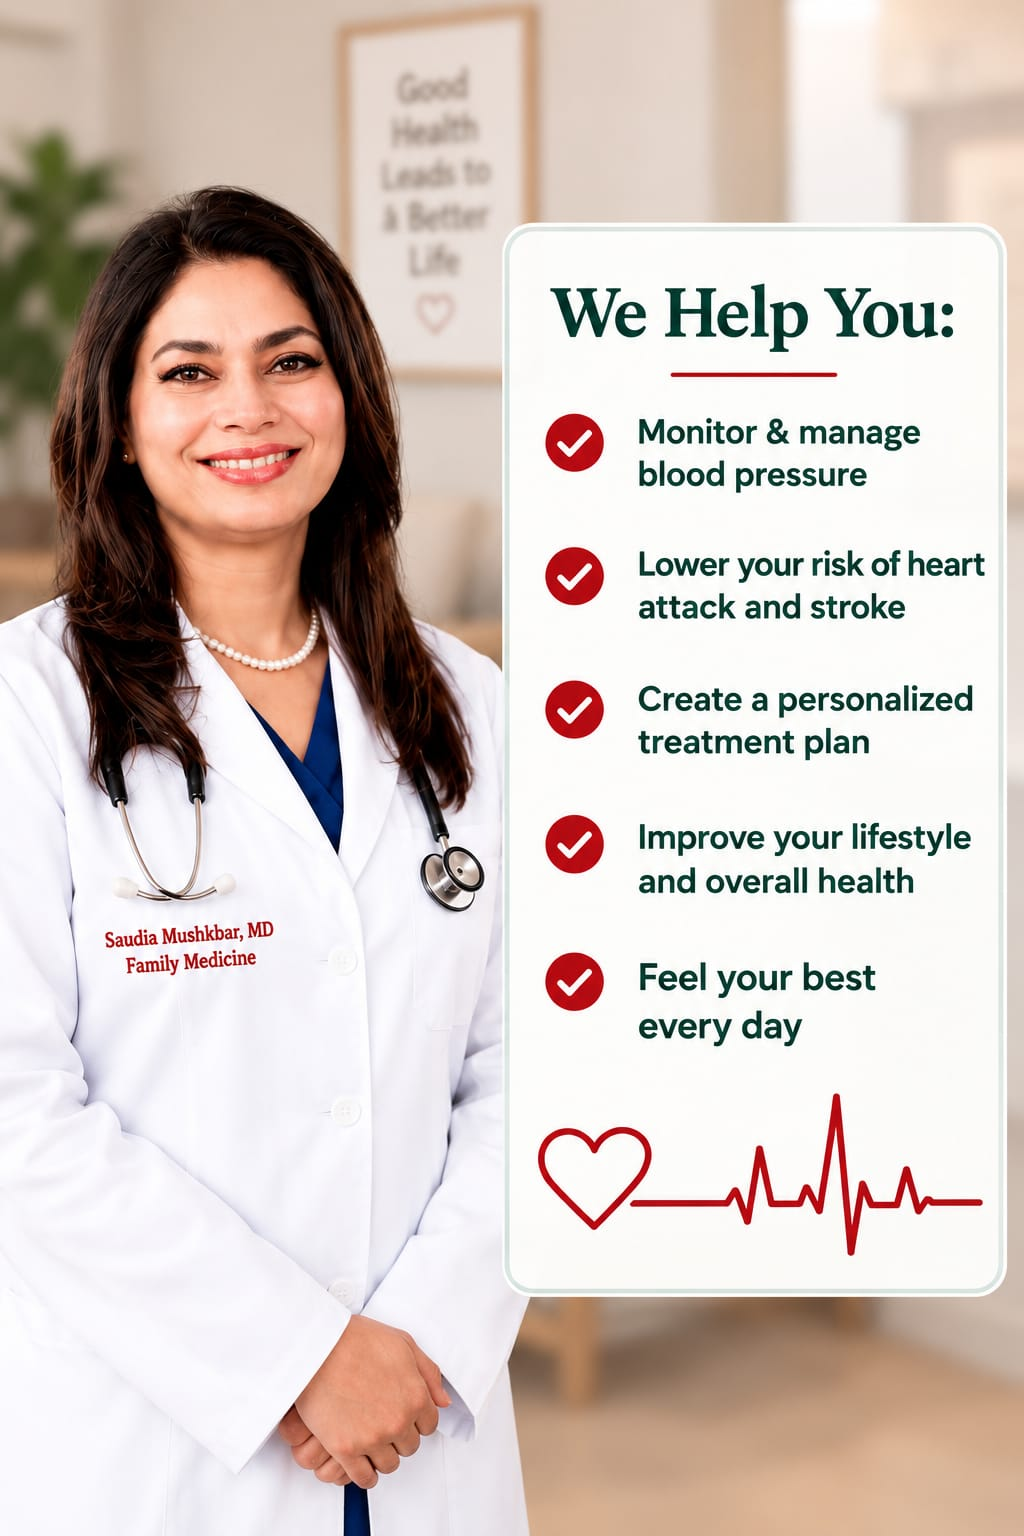
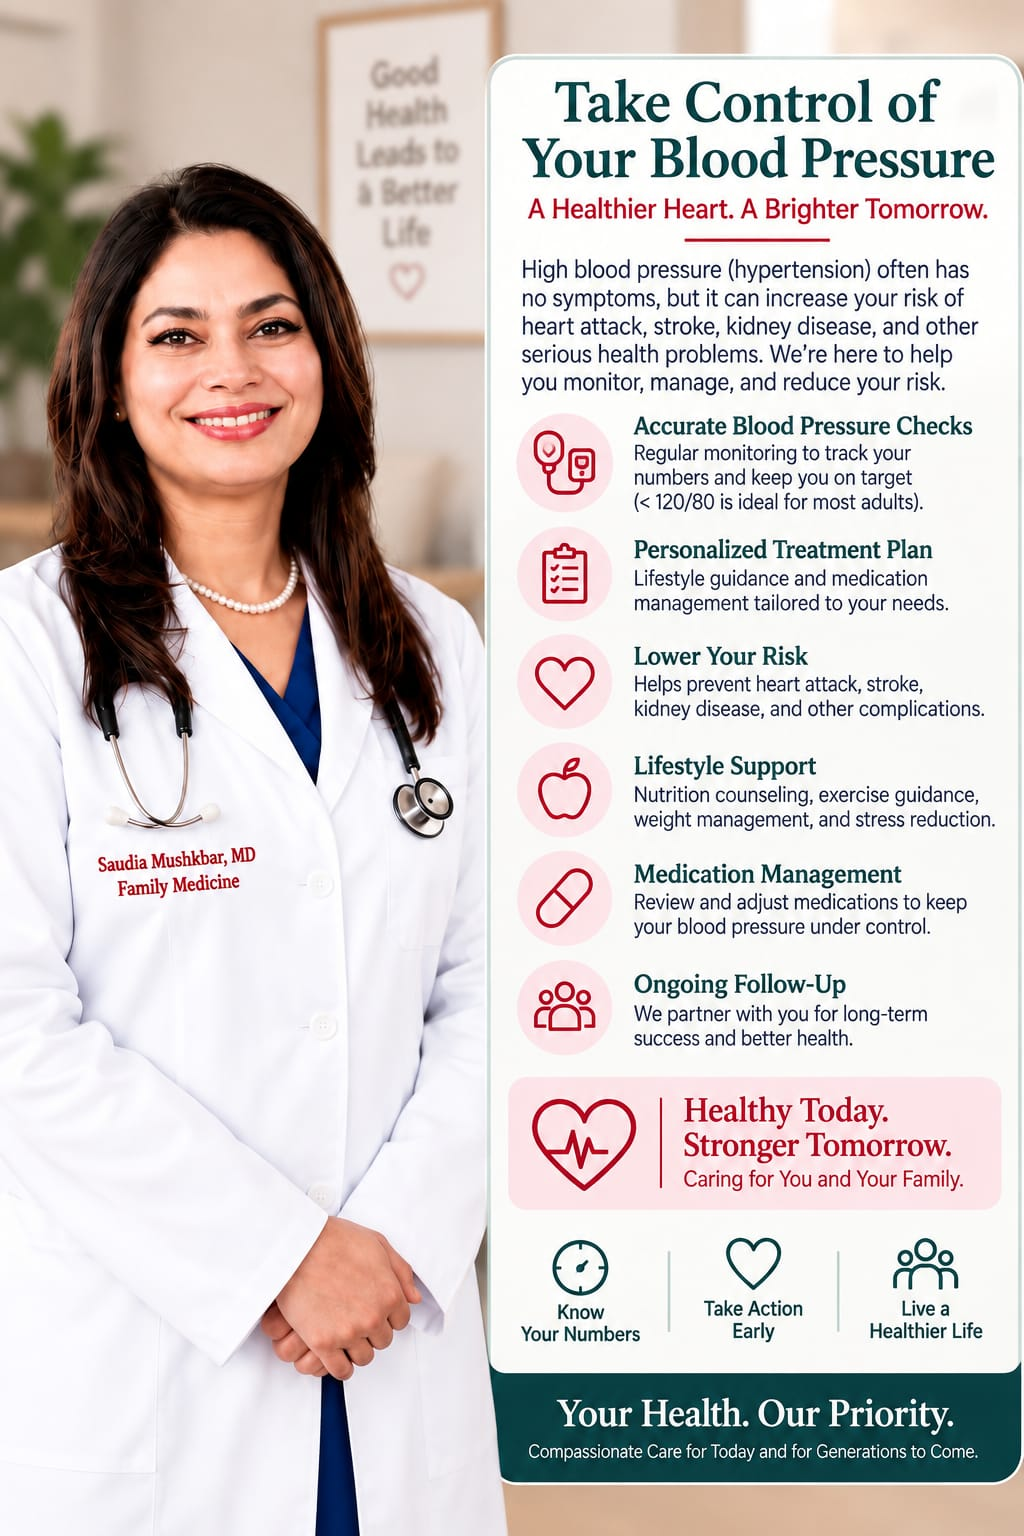
Use the supplied hero graphics across the service pages
Point ten service pages and the Medicare page at the hero images added to
public/images/doctor, each named for its route, and drop the floating card
that sat over them. Each graphic carries its own panel, so the card was a
second card on top of the first.

Two structural changes the new images forced:

The hero no longer crops to 4:5. These files are composed graphics whose
panels carry real content, and a fixed aspect ratio was slicing that content
off — worst on the landscape women's health image, where most of the panel
was outside the crop.

Wide images now span the full content width beneath the copy rather than
sitting in a 45% column. At column width the women's panel rendered its body
text at roughly a third of its designed size, which is unreadable; full width
brings it back to near 1:1.

Each image's alt text spells out its panel, since none of that wording reaches
screen readers or search engines from the file itself.

On the homepage hero, the plan list is now the six plan logos rather than their
names in prose, and the separate logo band below it is gone since it repeated
the same marks. The headline uses the same 64px ceiling as the service heroes
so it stops wrapping onto four lines, and the duplicated "confirm your plan"
line is down to one.

/primary-care-doctor-toledo and /hospital-follow-up-primary-care-toledo keep
their existing portrait and floating card — no graphic was supplied for either.
[…]

diff --git a/lib/landing.ts b/lib/landing.ts
@@ -17,36 +17,6 @@ const WHITE_COAT = {
   height: 2560,
 } as const;
 
-const SCRUBS = {
-  src: "/images/doctor/doctor-saudia-mushkbar-scrubs.jpeg",
-  alt: "Dr. Saudia Mushkbar, MD, family medicine physician in Toledo, Ohio, wearing navy scrubs with a stethoscope",
-  width: 899,
-  height: 1320,
-} as const;
-
-const BLOOD_PRESSURE = {
-  src: "/images/doctor/high-blood-pressure-doctor-toledo.jpg",
-  // The panel is part of the image file, so its wording has to live here —
-  // none of it is otherwise available to screen readers or crawlers.
-  alt: "Dr. Saudia Mushkbar, MD in her Toledo, Ohio family medicine office, beside a panel headed “We Help You” reading: monitor and manage blood pressure, lower your risk of heart attack and stroke, create a personalized treatment plan, improve your lifestyle and overall health, and feel your best every day",
-  width: 1024,
-  height: 1536,
-} as const;
-
-const SENIOR_VISIT = {
-  src: "/images/general/family-medicine-care-2.png",
-  alt: "A clinician sitting with an older adult patient during a primary care visit",
-  width: 570,
-  height: 840,
-} as const;
-
-const CONSULT = {
-  src: "/images/general/family-medicine-care-1.webp",
-  alt: "A patient talking with her doctor during a primary care appointment",
-  width: 570,
-  height: 840,
-} as const;
-
 /** Reasons shared by most pages, phrased from facts published on the site. */
 const commonReasons = [
   {
@@ -92,24 +62,12 @@ export const landingPages: LandingPageData[] = [
       { title: "Compassionate care", description: "Every visit matters.", icon: "HandHeart" },
       { title: "One familiar practice", description: "Follow-up with your own doctor.", icon: "Stethoscope" },
     ],
-    aside: {
-      kind: "checklist",
-      title: "Get care today for:",
-      items: [
-        "Cold, flu & cough",
-        "Sore throat",
-        "Ear pain",
-        "Urinary symptoms",
-        "Rashes & skin issues",
-        "Minor injuries",
-        "And more",
-      ],
-      note: {
-        title: "In an emergency",
-        body: "For life-threatening emergencies please call 911 or go to the nearest emergency room.",
-      },
+    image: {
+      src: "/images/doctor/same-day-primary-care-toledo.jpg",
+      alt: "Dr. Saudia Mushkbar, MD in her Toledo office beside a panel headed “Same-Day Appointments Available”, listing common reasons for a same-day visit: cold, flu and cough; sore throat; ear pain; urinary symptoms; rashes and skin issues; minor injuries; and more — with the office number, 419-517-7687",
+      width: 1224,
+      height: 1285,
     },
-    image: WHITE_COAT,
     grid: {
       title: "Comprehensive Primary Care Services",
       items: [
@@ -215,20 +173,12 @@ export const landingPages: LandingPageData[] = [
       { title: "Same-day & same-week appointments", icon: "CalendarClock" },
       { title: "Compassionate, respectful support", icon: "MessageCircleHeart" },
     ],
-    aside: {
-      kind: "checklist",
-      title: "Care for women at every stage",
-      items: [
-        "Annual wellness exams",
-        "Routine gynecological exams",
-        "Menstrual & hormonal health",
-        "Contraception counseling",
-        "Family planning",
-        "Menopause support",
-        "Management of chronic conditions",
-      ],
+    image: {
+      src: "/images/doctor/womens-primary-care-doctor-toledo.jpg",
+      alt: "Dr. Saudia Mushkbar, MD with a patient beside a panel headed “Women’s Health Care At Every Stage of Life”, listing annual wellness exams, pap smears and breast exams, menstrual and hormonal health, contraception counseling, preconception and pregnancy planning, menopause support, bone health screening, management of chronic conditions, and personalized care for all women",
+      width: 1536,
+      height: 1024,
     },
-    image: SCRUBS,
     grid: {
       title: "Comprehensive Women’s Health Services",
       items: [
@@ -282,21 +232,12 @@ export const landingPages: LandingPageData[] = [
       { title: "Whole-person care", description: "Nutrition, lifestyle and medication support.", icon: "Apple" },
       { title: "Ongoing support", description: "Regular follow-ups and same-day access.", icon: "CalendarCheck" },
     ],
-    aside: {
-      kind: "checklist",
-      title: "Diabetes care includes:",
-      items: [
-        "Diabetes management (type 1 & type 2)",
-        "Blood sugar monitoring & A1C testing",
-        "Medication management",
-        "Nutrition & lifestyle counseling",
-        "Weight management",
-        "Screening for diabetes complications",
-        "Foot care & education",
-        "Coordination with specialists",
-      ],
+    image: {
+      src: "/images/doctor/diabetes-doctor-toledo.jpg",
+      alt: "Dr. Saudia Mushkbar, MD in her Toledo office beside a panel headed “Diabetes Care”, listing blood sugar monitoring, medication management, nutrition and lifestyle guidance, preventing complications, and ongoing support",
+      width: 1224,
+      height: 1285,
     },
-    image: WHITE_COAT,
     grid: {
       title: "Comprehensive Diabetes Care Services",
       items: [
@@ -349,7 +290,12 @@ export const landingPages: LandingPageData[] = [
     ],
     // No floating card: the portrait carries its own "We Help You" panel, so a
     // second card on top would stack one over the other.
-    image: BLOOD_PRESSURE,
+    image: {
+      src: "/images/doctor/high-blood-pressure-doctor-toledo.jpg",
+      alt: "Dr. Saudia Mushkbar, MD in her Toledo office beside a panel headed “Take Control of Your Blood Pressure”, listing accurate blood pressure checks, a personalized treatment plan, lowering your risk, lifestyle support, medication management, and ongoing follow-up",
+      width: 1024,
+      height: 1536,
+    },
     grid: {
       title: "Comprehensive Hypertension Care",
       items: [
@@ -400,26 +346,12 @@ export const landingPages: LandingPageData[] = [
       { title: "Early detection", description: "Identify risks and catch problems early.", icon: "Microscope" },
       { title: "A plan for the year", description: "Clear next steps you can follow.", icon: "CalendarCheck" },
     ],
-    aside: {
-      kind: "checklist",
-      title: "Your annual wellness visit may include:",
-      items: [
-        "Review of your medical history",
-        "Update of your medications",
-        "Blood pressure & vitals check",
-        "Cognitive health assessment",
-        "Depression screening",
-        "Fall risk assessment",
-        "Preventive screenings",
-        "Health education & counseling",
-        "A personalized prevention plan",
-      ],
-      note: {
-        title: "Confirm your plan",
-        body: "Coverage and network status vary by plan. Call the office and we will confirm your specific Medicare or Medicare Advantage plan.",
-      },
+    image: {
+      src: "/images/doctor/medicare-annual-wellness-visit-toledo.jpg",
+      alt: "Dr. Saudia Mushkbar, MD with an older patient beside a panel headed “Your Annual Wellness Visit”, listing review of your health history, updating your medications, checking vital signs, cognitive health screening, depression screening, fall risk assessment, preventive screenings, health education and counseling, and a personalized prevention plan",
+      width: 1024,
+      height: 1536,
     },
-    image: SENIOR_VISIT,
     grid: {
       title: "What Your Medicare Annual Wellness Visit Covers",
       items: [
@@ -477,21 +409,12 @@ export const landingPages: LandingPageData[] = [
       { title: "Vaccinations", description: "Kept up to date at your visit.", icon: "Syringe" },
       { title: "All ages", description: "Adults and children alike.", icon: "Users" },
     ],
-    aside: {
-      kind: "checklist",
-      title: "Your annual physical may include:",
-      items: [
-        "Review of your medical history",
-        "Blood pressure & vitals check",
-        "Physical examination",
-        "Cholesterol & blood sugar screening",
-        "Cancer screening recommendations",
-        "Vaccination review & updates",
-        "Medication review",
-        "A plan for the year ahead",
-      ],
+    image: {
+      src: "/images/doctor/annual-physical-exam-toledo.jpg",
+      alt: "Dr. Saudia Mushkbar, MD with an older patient beside a panel headed “A Healthy You Builds a Stronger Tomorrow”, listing: check your health, prevent future problems, feel your best, and live a longer, healthier life",
+      width: 1199,
+      height: 1312,
     },
-    image: CONSULT,
     grid: {
       title: "What a Wellness Exam Covers",
       items: [
@@ -542,21 +465,12 @@ export const landingPages: LandingPageData[] = [
       { title: "Chronic disease support", description: "Long-term conditions managed well.", icon: "Activity" },
       { title: "Medicare accepted", description: "Medicare & Medicare Advantage.", icon: "ShieldCheck" },
     ],
-    aside: {
-      kind: "checklist",
-      title: "Senior care includes:",
-      items: [
-        "Medicare Annual Wellness Visits",
-        "Preventive care & screenings",
-        "Chronic disease management",
-        "Medication management",
-        "Memory & cognitive check-ins",
-        "Fall risk assessment",
-        "Coordination with specialists",
-        "Same-day sick visits",
-      ],
+    image: {
+      src: "/images/doctor/senior-primary-care-doctor-toledo.jpg",
+      alt: "Dr. Saudia Mushkbar, MD with an older patient beside a panel headed “Comprehensive Primary Care for Seniors”, covering preventive and wellness care, chronic disease management, memory and cognitive health, healthy aging support, care coordination, and Medicare and insurance support",
+      width: 1319,
+      height: 1193,
     },
-    image: SENIOR_VISIT,
     grid: {
       title: "Comprehensive Care for Older Adults",
       items: [
@@ -607,8 +521,12 @@ export const landingPages: LandingPageData[] = [
       "Compassionate, personalized care you can trust",
       "Convenient location in Toledo, OH",
     ],
-    aside: { kind: "trust" },
-    image: SCRUBS,
+    image: {
+      src: "/images/doctor/switch-medicare-primary-care-doctor-toledo.jpg",
+      alt: "Dr. Saudia Mushkbar, MD beside a panel headed “Switch Your Medicare PCP to Dr. Mushkbar”, explaining why patients choose her and the four steps to switch: call the office, we help with the paperwork, confirm your plan, and you’re all set",
+      width: 1224,
+      height: 1285,
+    },
     steps: {
       title: "It’s Easy to Switch — We Handle the Rest",
       items: [
@@ -750,8 +668,12 @@ export const landingPages: LandingPageData[] = [
       "Same-day & same-week appointments",
       "Convenient location in Toledo, OH",
     ],
-    aside: { kind: "trust" },
-    image: SCRUBS,
+    image: {
+      src: "/images/doctor/new-patients.jpg",
+      alt: "Dr. Saudia Mushkbar, MD in her Toledo office beside a panel headed “New Patients Welcome”, listing care for all ages, preventive care and annual exams, chronic disease management, medication management, most insurance plans accepted, and a partner in your health",
+      width: 1145,
+      height: 1374,
+    },
     grid: {
       title: "Comprehensive Care for Every Member of Your Family",
       items: [
@@ -824,23 +746,12 @@ export const landingPages: LandingPageData[] = [
       { title: "Nutrition & lifestyle", description: "Practical, sustainable changes.", icon: "Apple" },
       { title: "Ongoing follow-up", description: "Regular reviews of your progress.", icon: "CalendarCheck" },
     ],
-    aside: {
-      kind: "checklist",
-      title: "Weight & wellness care includes:",
-      items: [
-        "Medical evaluation & goal setting",
-        "GLP-1 program discussion & supervision",
-        "Nutrition & lifestyle counseling",
-        "Blood sugar & cholesterol screening",
-        "Blood pressure monitoring",
-        "Ongoing follow-up visits",
-      ],
-      note: {
-        title: "Is a GLP-1 right for you?",
-        body: "Suitability depends on your medical history. Call the office to discuss your options with Dr. Mushkbar.",
-      },
+    image: {
+      src: "/images/doctor/weight-loss-doctor-toledo.jpg",
+      alt: "Dr. Saudia Mushkbar, MD measuring a patient’s waist beside a panel headed “Medically Supervised Weight Loss”, covering personalized weight loss plans, nutrition and lifestyle counseling, GLP-1 medication guidance, and ongoing support",
+      width: 1224,
+      height: 1285,
     },
-    image: CONSULT,
     grid: {
       title: "Comprehensive Weight & Wellness Care",
       items: [

diff --git a/components/sections/Hero.tsx b/components/sections/Hero.tsx
@@ -6,7 +6,6 @@ import { Container } from "@/components/common/Container";
 import { InsuranceLogos } from "@/components/common/InsuranceLogos";
 import { Button } from "@/components/ui/button";
 import { CTA } from "@/lib/constants";
-import { insuranceSummary } from "@/lib/content";
 
 /**
  * Homepage hero, reproducing the original section: the "NOW" rule, the split
@@ -25,7 +24,7 @@ export function Hero() {
               <span className="rule-line w-16" />
             </p>
 
-            <h1 className="mt-6 text-display-1">
+            <h1 className="mt-6 text-display-hero">
               <span className="block">Accepting New</span>{" "}
               <span className="block text-alert">
                 Medicare &amp; Medicare Advantage Patients
@@ -38,9 +37,8 @@ export function Hero() {
 
             <span aria-hidden="true" className="mt-7 block h-0.5 w-16 bg-accent" />
 
-            <p className="mt-6 max-w-prose text-[1.0625rem] leading-relaxed text-body">
-              {insuranceSummary}
-            </p>
+            <InsuranceLogos className="mt-8 max-w-lg gap-x-8 lg:grid-cols-3" priority />
+            <p className="mt-5 text-[0.9375rem] text-body">&amp; others.</p>
 
             <div className="mt-9 flex flex-col gap-3 sm:flex-row">
               <Button asChild variant="alert" size="lg">
@@ -91,15 +89,6 @@ export function Hero() {
           </div>
         </div>
 
-        <div className="mt-16 border-t border-hairline pt-12">
-          <h2 className="text-center font-mono text-eyebrow uppercase tracking-[0.14em] text-brand-500">
-            In-network with leading plans
-          </h2>
-          <InsuranceLogos className="mt-8" priority />
-          <p className="mt-6 text-center font-display text-2xl text-brand">
-            + Others
-          </p>
-        </div>
       </Container>
     </section>
   );

diff --git a/components/landing/LandingHero.tsx b/components/landing/LandingHero.tsx
@@ -24,12 +24,22 @@ export function LandingHero({
   data: LandingHeroData;
   crumbs: Crumb[];
 }) {
+  // These hero images are composed graphics with readable text inside them. A
+  // landscape one squeezed into a 45%-wide column renders that text far too
+  // small, so wide images get the full content width beneath the copy instead.
+  const isWide = data.image.width >= data.image.height;
+
   return (
     <section className="bg-gradient-to-b from-cream to-canvas pb-16 pt-10 lg:pb-20 lg:pt-14">
       <Container>
         <Breadcrumbs items={crumbs} />
 
-        <div className="mt-10 grid items-start gap-12 lg:grid-cols-[1.15fr_0.85fr] lg:gap-14 [&>*]:min-w-0">
+        <div
+          className={cn(
+            "mt-10 grid items-start gap-12 [&>*]:min-w-0",
+            isWide ? "lg:gap-10" : "lg:grid-cols-[1.1fr_0.9fr] lg:gap-14",
+          )}
+        >
           <div>
             {data.badge ? (
               <p
@@ -114,8 +124,11 @@ export function LandingHero({
               width={data.image.width}
               height={data.image.height}
               priority
-              sizes="(max-width: 1024px) 90vw, 42vw"
-              className="mx-auto aspect-[4/5] w-full max-w-md rounded-card object-cover object-top shadow-card lg:mx-0 lg:max-w-none"
+              sizes={isWide ? "(max-width: 1024px) 92vw, 1400px" : "(max-width: 1024px) 90vw, 48vw"}
+              className={cn(
+                "mx-auto h-auto w-full rounded-card shadow-card",
+                isWide ? "max-w-none" : "max-w-md lg:mx-0 lg:max-w-none",
+              )}
             />
 
             {data.aside ? (

diff --git a/app/medicare-primary-care-doctor-toledo/page.tsx b/app/medicare-primary-care-doctor-toledo/page.tsx
@@ -52,13 +52,10 @@ const hero: LandingHeroData = {
     "20+ Years of Experience",
   ],
   image: {
-    src: "/images/doctor/doctor-primary-care.jpg",
-    // The trust panel is part of the image file, so its wording has to live in
-    // the alt text — none of it is otherwise available to screen readers or
-    // crawlers. This is also why the hero omits its own floating card.
-    alt: "Dr. Saudia Mushkbar, MD in her Toledo, Ohio family medicine office, beside a panel reading: 5.0 Google rating from 244+ reviews, 20+ years of clinical experience, board-certified in Family Medicine, and trusted care for Toledo families",
-    width: 1145,
-    height: 1374,
+    src: "/images/doctor/medicare-primary-care-doctor-toledo.jpg",
+    alt: "Dr. Saudia Mushkbar, MD beside a panel headed “Medicare Primary Care Doctor in Toledo”, listing that she welcomes Medicare and Medicare Advantage patients and provides preventive care and annual wellness visits, chronic disease management, medication management, and a caring partner in your health",
+    width: 1224,
+    height: 1285,
   },
 };
 
